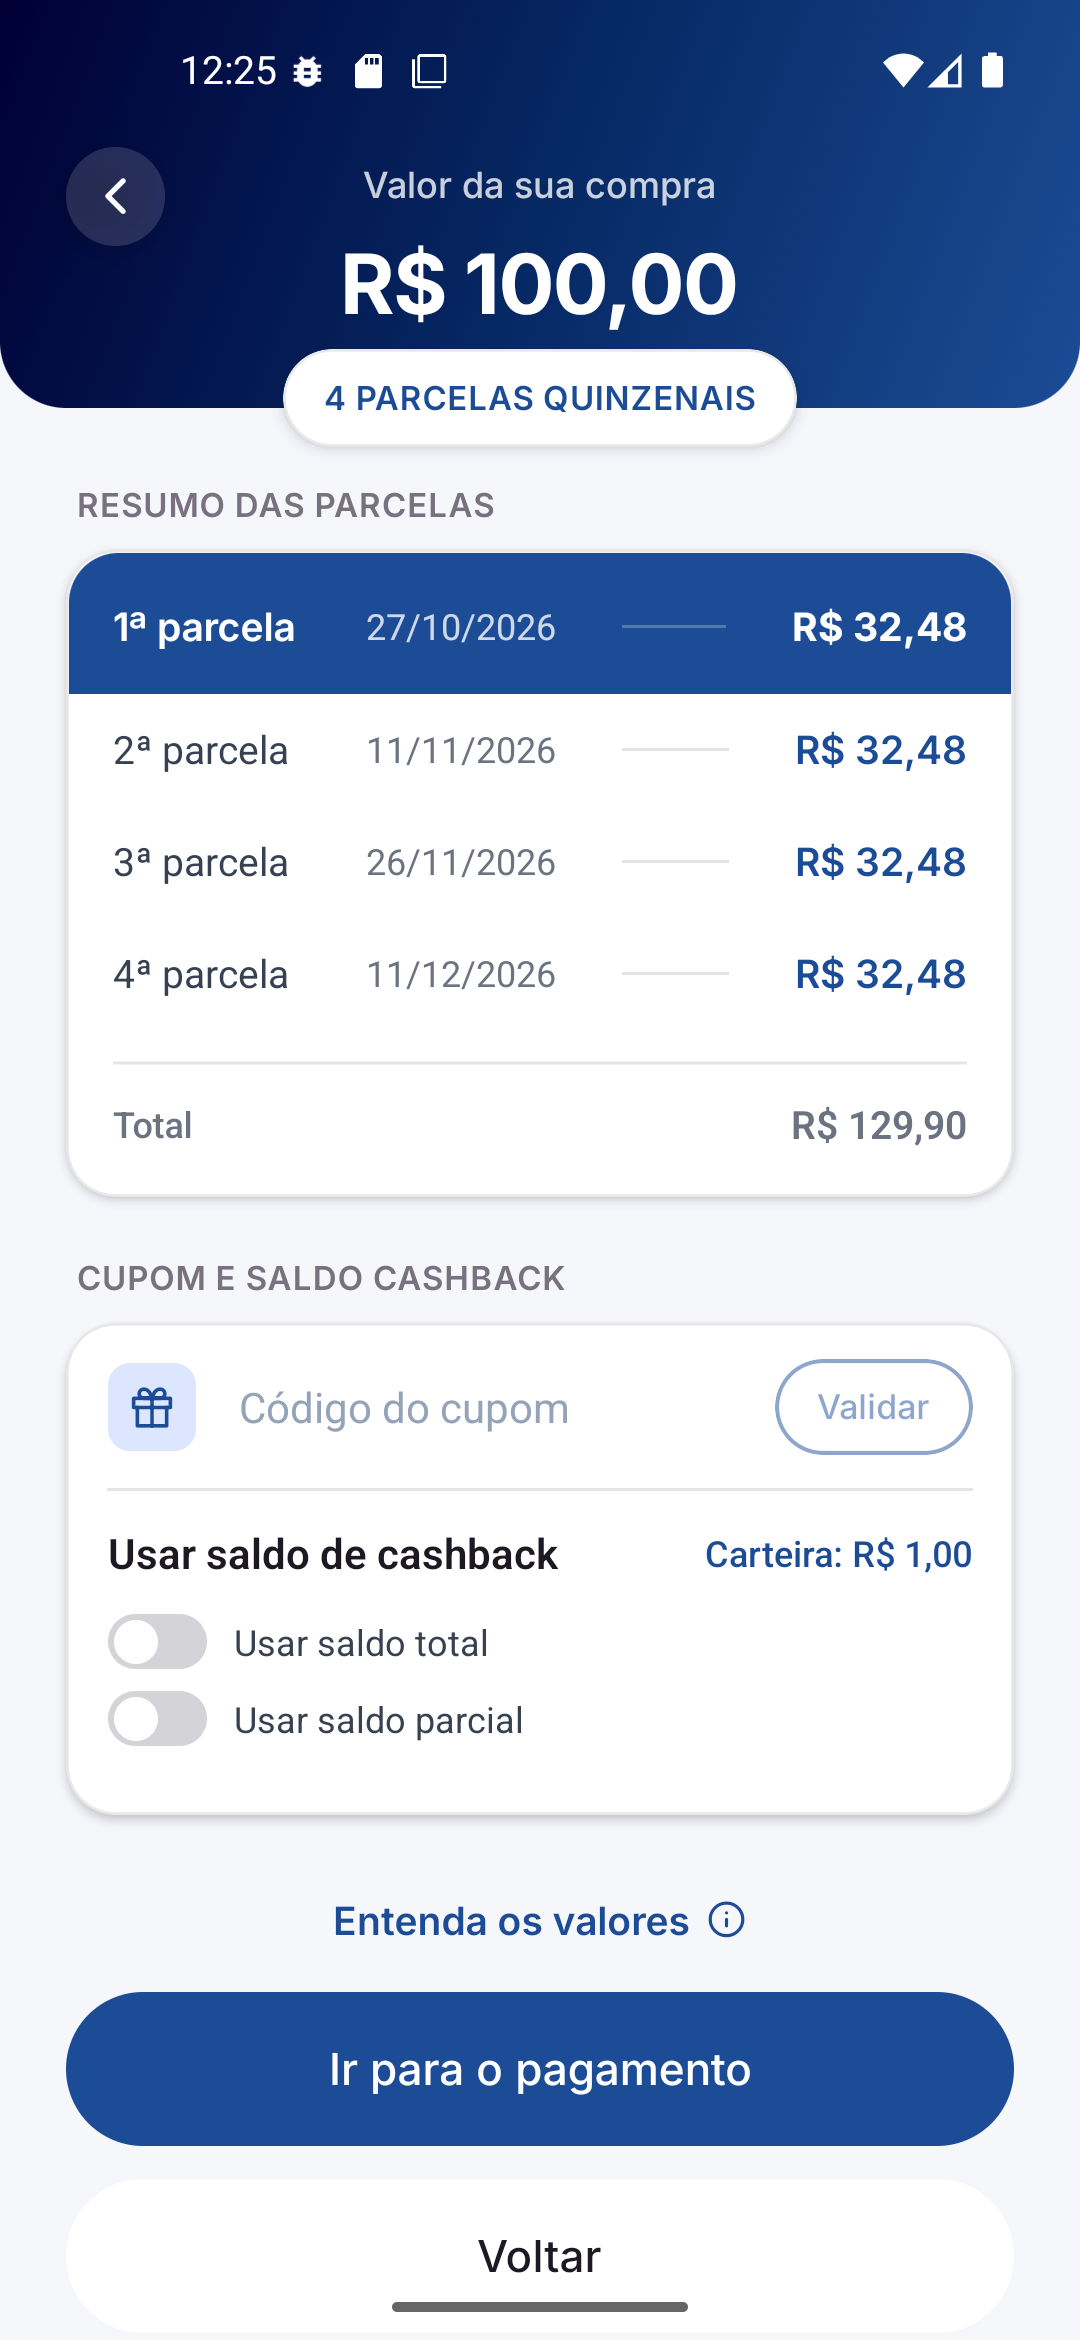
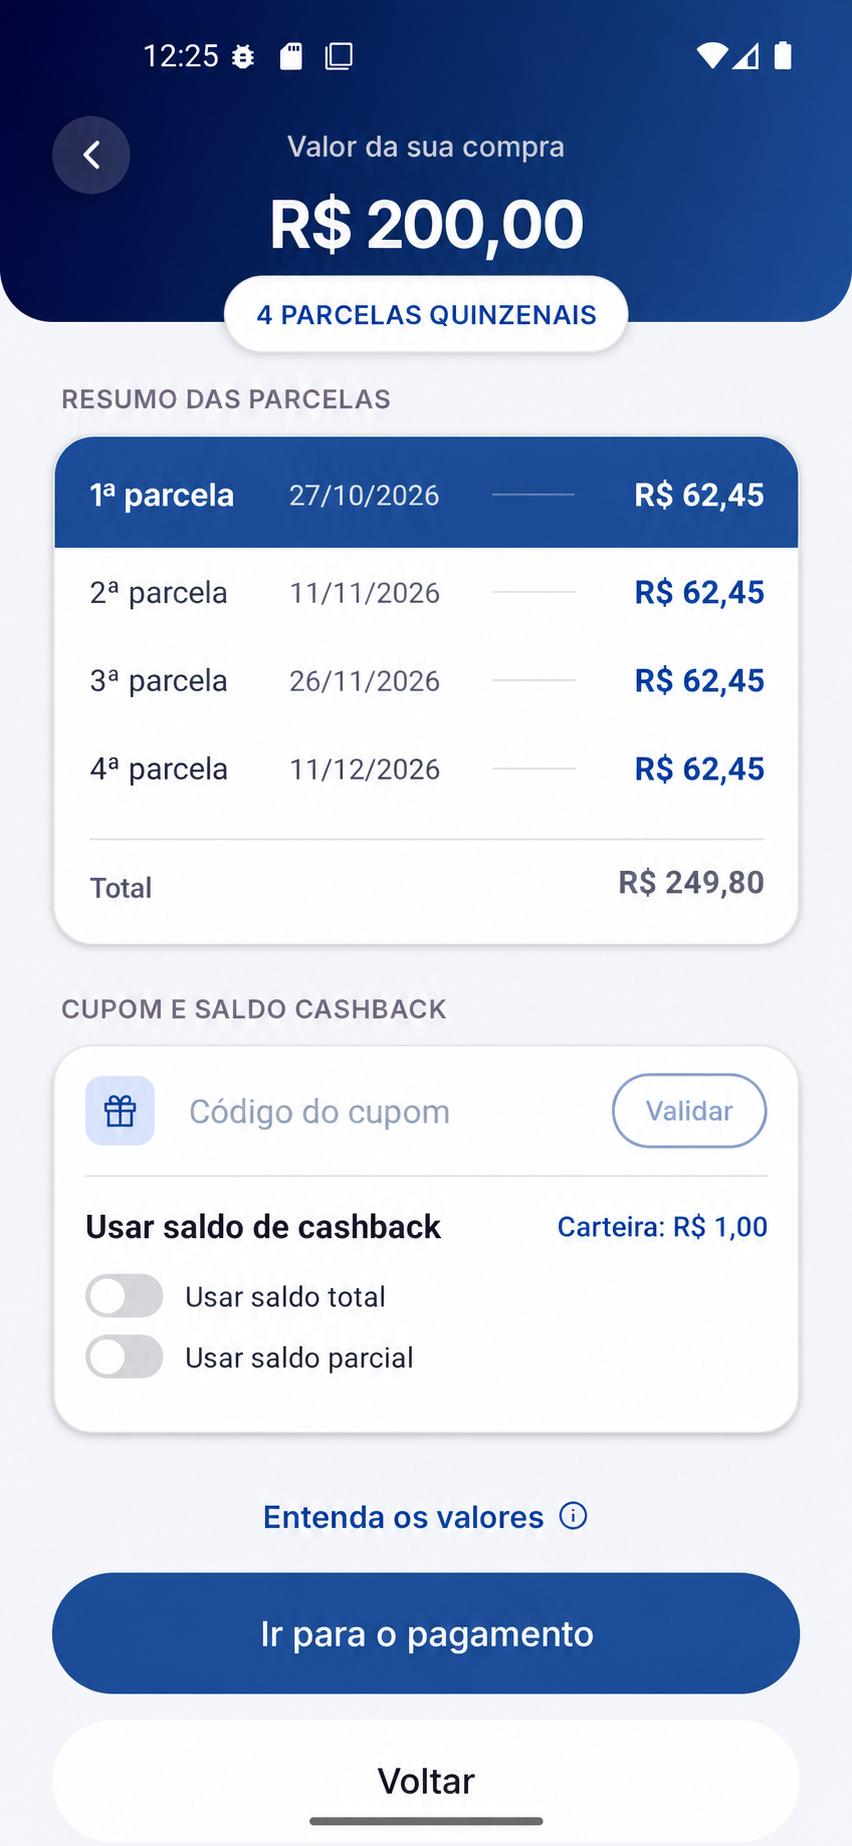
Release v1 (#3)
* alter texts

* improves

* improves

* improves

diff --git a/src/components/home-page.tsx b/src/components/home-page.tsx
@@ -20,13 +20,13 @@ const PRINTS = [
 ];
 
 const STEPS = [
-  { title: "Leia o Pix no app", text: "Escaneie o QR Code da loja ou cole o código Copia e Cola." },
+  { title: "Abra seu app", text: "Escaneie o QR Code da loja ou cole o código Copia e Cola." },
   {
-    title: "Confirme e pague a 1ª parcela",
-    text: "Confira os valores e o custo total e pague a primeira parcela no Pix.",
+    title: "Confira as possibilidades de parcelamento e pague a primeira parcela",
+    text: "Veja suas possibilidades e o custo total.",
   },
   {
-    title: "Pronto, está pago",
+    title: "Pronto: sua compra foi paga",
     text: "A loja recebe na hora e as demais parcelas são cobradas pelo Pix Automático.",
   },
 ];
@@ -331,8 +331,8 @@ export function HomePage() {
               <span className="grad">Parcele no app.</span>
             </h1>
             <p className="lead">
-              Supermercado, mercearia e saúde divididos em parcelas, só com o seu CPF. A análise de
-              crédito é feita na hora.
+              Agora você pode parcelar suas compras de supermercado, farmácias e exames de uma
+              maneira simples e rápida. Sua análise de crédito é feita na hora.
             </p>
             <WaitlistForm />
             <StoreButtons />
@@ -376,7 +376,7 @@ export function HomePage() {
               </div>
               <div className="chip chip-b">
                 <small>1ª parcela</small>
-                <b>R$ 32,48</b>
+                <b>R$ 62,45</b>
               </div>
             </div>
             <div className="phone phone-back phone-back-r" aria-hidden="true">
@@ -460,7 +460,7 @@ export function HomePage() {
                 </span>
                 <div>
                   <h3>Supermercados e mercearias</h3>
-                  <p>A compra do mês e o comércio do bairro.</p>
+                  <p>Da compra do mês à mercearia do bairro.</p>
                 </div>
               </li>
               <li>
@@ -485,7 +485,6 @@ export function HomePage() {
                   <h3>
                     Outras lojas de varejo <span className="where-tag">Em breve</span>
                   </h3>
-                  <p>Novas categorias entram nas próximas etapas.</p>
                 </div>
               </li>
             </ul>
@@ -493,11 +492,12 @@ export function HomePage() {
           <div className="where-no">
             <h3>Não pode ser parcelado</h3>
             <ul>
-              <li>Pix enviado para CPF de pessoa física</li>
-              <li>Sites de apostas, cassinos e plataformas similares</li>
-              <li>Compras abaixo de R$ 40,00</li>
-              <li>Tributos, multas e renegociação de empréstimos</li>
-              <li>Pagamento de fatura de cartão</li>
+              <li>Pix para pessoa física</li>
+              <li>Sites de apostas e similares</li>
+              <li>Compras abaixo de R$ 200,00</li>
+              <li>Contas de consumo</li>
+              <li>Tributos</li>
+              <li>Faturas de cartão de crédito</li>
             </ul>
           </div>
         </div>
@@ -507,34 +507,9 @@ export function HomePage() {
         <div className="container trust-in">
           <div className="trust-head">
             <header className="sh">
-              <h2>Segurança e transparência em cada parcela.</h2>
-              <p className="sub">
-                A Parcelei segue a legislação brasileira de proteção de dados e de crédito. O custo
-                total aparece antes de você confirmar.
-              </p>
+              <h2>Segurança e transparência em cada operação.</h2>
+              <p className="sub">Aqui você sabe exatamente quanto vai pagar em cada parcela.</p>
             </header>
-            <dl className="trust-id">
-              <div>
-                <dt>Razão social</dt>
-                <dd>Parcelei Serviços Digitais Ltda.</dd>
-              </div>
-              <div>
-                <dt>CNPJ</dt>
-                <dd>58.473.999/0001-76</dd>
-              </div>
-              <div>
-                <dt>Sede</dt>
-                <dd>Rua Conceição, 233, sala 916, Centro, Campinas – SP</dd>
-              </div>
-              <div className="trust-docs">
-                <a href="/termos-de-uso" target="_blank" rel="noopener noreferrer">
-                  Termos de uso
-                </a>
-                <a href="/politica-de-privacidade" target="_blank" rel="noopener noreferrer">
-                  Política de privacidade
-                </a>
-              </div>
-            </dl>
           </div>
 
           <ul className="tr">
@@ -544,11 +519,8 @@ export function HomePage() {
                 <path d="M9 12l2 2 4-4" />
               </svg>
               <div>
-                <h3>Dados protegidos</h3>
-                <p>
-                  Seus dados são tratados conforme a LGPD, com medidas técnicas e administrativas
-                  de segurança.
-                </p>
+                <h3>Dados protegidos e segurança da informação</h3>
+                <p>Seus dados são tratados em conformidade com a LGPD.</p>
                 <small>Lei 13.709/2018</small>
               </div>
             </li>
@@ -558,11 +530,8 @@ export function HomePage() {
                 <path d="M8 8h8M8 12h8M8 16h5" />
               </svg>
               <div>
-                <h3>Custo total na tela</h3>
-                <p>
-                  Taxas, tributos e encargos aparecem no Custo Efetivo Total antes de você tocar em
-                  Pagar.
-                </p>
+                <h3>Custo total exibido na tela</h3>
+                <p>Aqui você sabe exatamente tudo o que vai pagar antes de contratar o crédito.</p>
                 <small>CET</small>
               </div>
             </li>
@@ -585,10 +554,10 @@ export function HomePage() {
                 <path d="M14 3v5h5M10 13h6M10 17h4" />
               </svg>
               <div>
-                <h3>Contrato formal</h3>
+                <h3>Contrato formalizado no ato da contratação</h3>
                 <p>
-                  Cada parcelamento é formalizado em uma Cédula de Crédito Bancário, enviada para o
-                  seu e-mail.
+                  Cada operação de crédito é formalizada por uma CCB (Cédula de Crédito Bancário),
+                  de acordo com as regras do Banco Central do Brasil.
                 </p>
                 <small>CCB</small>
               </div>
@@ -598,10 +567,10 @@ export function HomePage() {
                 <path d="M3 10l9-6 9 6M5 10v8M10 10v8M14 10v8M19 10v8M3 20h18" />
               </svg>
               <div>
-                <h3>Consultas autorizadas</h3>
+                <h3>Consultas de maneira transparente</h3>
                 <p>
-                  As consultas ao SCR do Banco Central e ao Open Finance usam a autorização que
-                  você dá no cadastro.
+                  Aqui você dá o consentimento para podermos analisar seu crédito via Open Finance e
+                  SCR.
                 </p>
                 <small>SCR · Open Finance</small>
               </div>

diff --git a/src/app/globals.css b/src/app/globals.css
@@ -126,13 +126,6 @@ h3{font-size:22px;line-height:1.25;letter-spacing:-.02em;font-weight:600}
 .trust::before{width:560px;height:560px;left:-160px;bottom:-220px}
 .trust-in{position:relative;display:grid;grid-template-columns:minmax(0,5fr) minmax(0,7fr);gap:40px 72px;align-items:start}
 .trust .sh{margin-bottom:36px}.trust .sub{color:rgba(255,255,255,.72)}
-.trust-id{display:flex;flex-direction:column;border-top:1px solid rgba(123,162,224,.24)}
-.trust-id>div{display:grid;grid-template-columns:120px 1fr;gap:16px;padding:14px 0;border-bottom:1px solid rgba(123,162,224,.24);font-size:15px}
-.trust-id dt{color:rgba(255,255,255,.56)}
-.trust-id dd{color:#fff;font-weight:500}
-.trust-id .trust-docs{display:flex;flex-wrap:wrap;gap:10px 24px;border-bottom:0;padding-top:18px}
-.trust-docs a{color:var(--n300);font-weight:500;text-decoration:underline;text-decoration-color:rgba(123,162,224,.45);text-underline-offset:4px;transition:color .2s}
-.trust-docs a:hover{color:#fff}
 .tr{list-style:none;display:grid;grid-template-columns:1fr 1fr;border-top:1px solid rgba(123,162,224,.24)}
 .tr li{display:grid;grid-template-columns:44px 1fr;gap:16px;align-items:start;padding:28px 24px 28px 0;border-bottom:1px solid rgba(123,162,224,.24)}
 .tr li:nth-child(even){padding:28px 0 28px 24px;border-left:1px solid rgba(123,162,224,.24)}
@@ -214,7 +207,8 @@ h3{font-size:22px;line-height:1.25;letter-spacing:-.02em;font-weight:600}
 .foot nav a:hover{color:var(--n500)}
 .foot-link{align-self:flex-start;padding:0;border:0;background:none;font:inherit;color:inherit;text-align:left;cursor:pointer;transition:color .2s}
 .foot-link:hover{color:var(--n500)}
-.foot-link:focus-visible,.pm-close:focus-visible{outline:2px solid var(--n300);outline-offset:3px;border-radius:4px}
+.foot-link:focus-visible,.foot-partner:focus-visible,.pm-close:focus-visible{outline:2px solid var(--n300);outline-offset:3px;border-radius:4px}
+.foot-partner{align-self:flex-start;margin-top:4px;height:44px;padding:0 20px;white-space:normal;text-wrap:balance}
 /* partner modal */
 html.modal-open{overflow:hidden}
 .pm{margin:auto;padding:0;border:0;background:transparent;width:min(960px,calc(100vw - 32px));max-height:calc(100dvh - 32px);color:var(--ink);overflow:visible}
@@ -344,25 +338,30 @@ h1{font-size:48px;line-height:1.02;letter-spacing:-.04em}h2{font-size:34px;line-
 .nav-links{display:none}.nav-in{height:64px}
 .hero{padding:120px 0 72px}
 .hero-in,.how-grid,.faq-in{grid-template-columns:1fr}
+.hero-copy h1{text-align:center}
 .hero .lead{margin:20px 0 32px}
+.hero .wl{max-width:none}
+.hero .wl-msg,.hero .wl-legal{text-align:center}
+.hero .stores{justify-content:center;margin-inline:auto}
+.hero .seals{justify-content:center}
+.hero-art{margin-top:24px;min-height:0;justify-content:center}
 .wl-field{flex-direction:column;align-items:stretch;gap:10px;padding:0;background:transparent;border:0;border-radius:0}
 .wl-field:focus-within{border-color:transparent}
 .wl input{flex:none;display:block;width:100%;height:52px;box-sizing:border-box;padding:15px 16px;line-height:20px;text-align:left;border:1px solid rgba(255,255,255,.42);border-radius:16px;background:rgba(255,255,255,.06)}
 .wl input:focus{border-color:var(--n300)}
 .wl.err input{border-color:#ff8a8a}
 .wl .btn{width:100%;height:52px;white-space:normal}
-.seals{gap:10px 20px;font-size:14px}
-.hero-art{margin-top:24px;min-height:0}
+.seals{gap:10px 20px;font-size:14px;justify-content:center}
 .phone-back{display:none}
 .phone{width:280px}
 .phone-hero{width:250px}
-.chip-a{left:8px;top:-36px}.chip-b{display:none}
+.chip-a{left:50%;right:auto;width:max-content;translate:-50% 0;top:-36px}.chip-b{display:none}
 .sh{margin-bottom:40px}.sh-row{flex-direction:column;align-items:flex-start;gap:12px}
 .how-grid{gap:0}
 .how-stage{display:none}
 .steps{padding:0}.steps:before{left:19px;top:20px;bottom:20px}
 .step{display:grid;grid-template-columns:40px minmax(0,1fr);column-gap:16px;row-gap:24px;min-height:0;padding:8px 0 48px;border:0;opacity:1;align-items:start}
-.step:last-child{border:0;padding-bottom:0}.step h3{font-size:22px;margin-bottom:8px}
+.step:last-child{border:0;padding-bottom:0}.step h3{font-size:22px;margin-bottom:8px;max-width:22ch}
 .step .num{background:var(--n500);color:#fff;border-color:var(--n500)}
 .step-phone{display:block;grid-column:2;justify-self:start;width:min(220px,100%);padding:7px 6px;border-radius:36px;opacity:0;transform:translateY(28px) scale(.96);transition:opacity .8s var(--ease) .2s,transform .8s var(--ease) .2s}
 .step-phone .scr{border-radius:30px}
@@ -372,14 +371,14 @@ h1{font-size:48px;line-height:1.02;letter-spacing:-.04em}h2{font-size:34px;line-
 .where-ic{width:40px;height:40px;border-radius:12px}.where-ic svg{width:20px;height:20px}
 .where-list h3{font-size:20px}.where-list p{font-size:15px}
 .tr{grid-template-columns:1fr}.tr li,.tr li:nth-child(even){padding:22px 0;border-left:0}
-.trust-id>div{grid-template-columns:96px 1fr;gap:12px}.faq .sh{position:relative;top:0}
+.faq .sh{position:relative;top:0}
 .acc summary{font-size:17px;padding:14px 0;min-height:48px}.acc-body{padding-right:0}
 .where-cats{padding:200px 12px 12px;border-radius:24px}.where-list li{padding:16px}.where-list{width:100%}
 .where-bg{bottom:auto;height:280px}.where-bg img{object-position:right top}
 .where-shade{background:linear-gradient(180deg,transparent 0,transparent 45%,rgba(0,0,53,.75) 80%,var(--n900) 100%)}
 .where-no{margin-top:24px}
 .where-no ul{grid-template-columns:1fr;gap:8px}
-.where .sh{margin-bottom:28px}.marquee{margin:0 calc(var(--gut) * -1) 32px}
+.where .sh{margin-bottom:28px;text-align:center;margin-inline:auto}.marquee{margin:0 calc(var(--gut) * -1) 32px}
 .marquee li{padding:6px 16px 6px 6px;font-size:14px}.marquee img{width:36px;height:36px;border-radius:10px}
 .cta{padding:0 12px 48px}.cta-in{display:flex;flex-direction:column;grid-template-columns:none;min-height:0;border-radius:28px;padding:0}
 .cta-visual{order:-1;grid-column:auto;width:100%;height:328px;min-height:0}
@@ -396,7 +395,7 @@ h1{font-size:48px;line-height:1.02;letter-spacing:-.04em}h2{font-size:34px;line-
 @media (max-width:768px){.hero-in,.how-grid,.faq-in{grid-template-columns:minmax(0,1fr)}}
 .chip-a{left:-145px;top:86px}.chip-b{left:calc(100% - 4px);right:auto;bottom:108px}
 .pend em{white-space:nowrap}
-@media (max-width:768px){.chip-a{left:8px;top:-36px}.chip-b{display:none}
+@media (max-width:768px){.chip-a{left:50%;right:auto;width:max-content;translate:-50% 0;top:-36px}.chip-b{display:none}
 .stores{display:grid;grid-template-columns:repeat(2,minmax(0,1fr));gap:8px;width:100%;max-width:360px}
 .store{gap:8px;padding:10px 12px}.store svg{width:20px;height:20px}.store b{font-size:14px}
 .wl-msg,.wl-legal{margin-left:0;margin-right:0}.wl .btn{text-wrap:balance}

diff --git a/src/components/site-footer.tsx b/src/components/site-footer.tsx
@@ -8,7 +8,7 @@ export function SiteFooter() {
         <div className="foot-top">
           <div>
             <img src="/parcelei-logo-azul-horizontal-1024.png" alt="Parcelei" height={32} />
-            <p>Pix Parcelado sem cartão.</p>
+            <p>Parcele no Pix sem cartão.</p>
             <div className="foot-social">
               <a
                 href="https://www.instagram.com/parcelei_oficial/"
@@ -38,7 +38,7 @@ export function SiteFooter() {
                 href="https://wa.me/5511921392248"
                 target="_blank"
                 rel="noopener noreferrer"
-                aria-label="WhatsApp da Parcelei, (11) 92139-2248"
+                aria-label="WhatsApp da Parcelei"
               >
                 <svg viewBox="0 0 24 24" aria-hidden="true">
                   <path d="M12 5.15a6.85 6.85 0 0 0-5.95 10.25L5.15 18.85l3.55-.9A6.85 6.85 0 1 0 12 5.15z" />
@@ -58,13 +58,11 @@ export function SiteFooter() {
           <nav>
             <b>Contato</b>
             <a
-              className="foot-wa"
               href="https://wa.me/5511921392248"
               target="_blank"
               rel="noopener noreferrer"
             >
               WhatsApp
-              <span>(11) 92139-2248</span>
             </a>
             <span>Atendimento em dias úteis.</span>
             <Link href="/#lista">Lista de espera</Link>

diff --git a/src/data/faq.ts b/src/data/faq.ts
@@ -53,8 +53,8 @@ export const FAQ_CATEGORIES: FaqCategory[] = [
         question: "O que é a Parcelei?",
         featured: true,
         answer: [
-          "A Parcelei é uma solução de crédito que permite fazer compras parceladas via Pix, sem depender de cartão de crédito.",
-          "Você tem acesso a um limite de crédito para realizar suas compras em estabelecimentos comerciais que comercializam, neste início, produtos essenciais: saúde e alimentação.",
+          "A Parcelei é uma solução de crédito que permite fazer compras e pagar de maneira parcelada via Pix, sem depender de cartão de crédito.",
+          "Após a aprovação do seu cadastro, você terá um limite de crédito pré-aprovado para fazer suas compras em estabelecimentos como supermercados, mercearias, farmácias e laboratórios de exames clínicos.",
         ],
       },
       {

diff --git a/src/components/partner-modal.tsx b/src/components/partner-modal.tsx
@@ -127,7 +127,7 @@ export function PartnerModal() {
 
   return (
     <>
-      <button type="button" className="foot-link" onClick={open}>
+      <button type="button" className="btn btn-primary btn-sm foot-partner" onClick={open}>
         Parcerias para lojistas
       </button>
       <dialog
